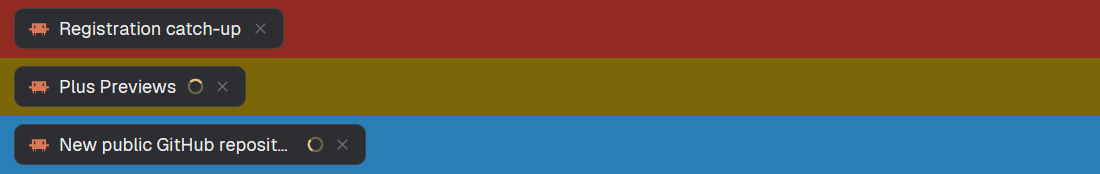
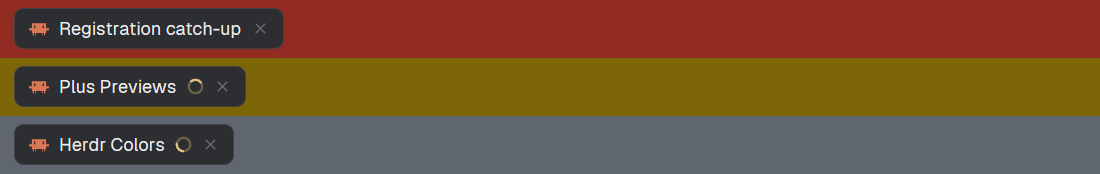
Use a soft gray for projects without a color
Replaces the name-hash palette, which could give unrelated projects the same
color and made it hard to tell which projects have a color set.

Changed region(s): [[0.0, 0.6609, 1.0, 1.0]]

diff --git a/mods/project-color/color.js b/mods/project-color/color.js
@@ -1,10 +1,8 @@
 // Pure helpers: no herdr imports, so node can test them (test/color.test.mjs).
 
-// Fallback colors for projects without one, in the spirit of VS Code title bars.
-export const PALETTE = [
-  "#007acc", "#6c3483", "#1e8449", "#922b21", "#7d6608",
-  "#2980b9", "#a04000", "#117a65", "#6b2fa0", "#b03a2e",
-];
+// For projects without a color of their own: a soft gray, so "no color set"
+// is plain to see next to the projects that have one.
+export const FALLBACK = "#5f6670";
 
 // Removes // and /* */ comments and trailing commas, leaving strings untouched,
 // so VS Code's settings.json (JSONC) parses with JSON.parse.
@@ -73,16 +71,6 @@ export function colorFromSettings(text) {
   const peacock = normalizeHex(s["peacock.color"]);
   if (peacock) return { background: peacock, foreground: null, source: "peacock.color" };
   return null;
-}
-
-// FNV-1a: the same name always lands on the same palette slot.
-export function hashColor(name) {
-  let h = 0x811c9dc5;
-  for (const ch of String(name ?? "").toLowerCase()) {
-    h ^= ch.codePointAt(0);
-    h = Math.imul(h, 0x01000193) >>> 0;
-  }
-  return PALETTE[h % PALETTE.length];
 }
 
 // Black or white text, whichever reads better on the background (WCAG luminance).

diff --git a/mods/project-color/main.js b/mods/project-color/main.js
@@ -1,7 +1,7 @@
 import { View, div } from "gpui-kit";
 import { h_flex } from "gpui-base";
 import { spaces, panes, exec, readTextFile, setWindowTitle, checking, shared, setShared, props } from "herdr";
-import { colorFromSettings, hashColor, textOn, baseName, mergeSpaceColors } from "./color.js";
+import { colorFromSettings, FALLBACK, textOn, baseName, mergeSpaceColors } from "./color.js";
 
 // How often the shown project's settings.json is read again, so a color
 // edited in VS Code shows up without switching spaces.
@@ -46,11 +46,11 @@ export default class ProjectColor extends View {
       let found = null;
       try {
         found = colorFromSettings(await readTextFile(`${root.replace(/[\\/]+$/, "")}/.vscode/settings.json`, { on: machine }));
-      } catch { /* unreadable: fall back to the hash */ }
+      } catch { /* unreadable: fall back to gray */ }
       const name = baseName(root) || "~";
       this.cache[key] = found
         ? { root, name, ...found }
-        : { root, name, background: hashColor(name), foreground: null, source: "hash" };
+        : { root, name, background: FALLBACK, foreground: null, source: "fallback" };
       delete this.loading[key];
       cx.notify();
     });

diff --git a/RECIPE.md b/RECIPE.md
@@ -41,7 +41,7 @@ per-project VS Code title bars.
   `tools/build-clones.mjs` from the shipped `tabs` and `agents` mods with regex-anchored
   patches that read `space.colors`.
 - `mods/project-color/color.js`: JSONC stripping, `titleBar.activeBackground` then
-  `peacock.color`, FNV-1a hash of the repo name into a 10-color palette, contrast, the merge.
+  `peacock.color`, else the soft gray `#5f6670`; contrast; the merge.
 
 ## Watch out
 
@@ -51,7 +51,7 @@ per-project VS Code title bars.
 - A Herdr update changes the shipped mods, not the clones: rerun the build script. It
   refuses to write if any anchor no longer matches exactly once.
 - The tabs clone still loads its window-button icons from `mods/tabs/`.
-- A space on a stopped machine (dev container) can't be read; it falls back to the hash color.
+- A space on a stopped machine (dev container) can't be read; it falls back to gray.
 - Colors with alpha (`#rrggbbaa`) drop the alpha; `#rgb` is expanded.
 
 ## Done when
@@ -59,6 +59,6 @@ per-project VS Code title bars.
 - `herdr-app check` passes for all three mods.
 - Two spaces in repos with different `titleBar.activeBackground` show those two tab bar colors.
 - A space on a dev container machine shows the color from the settings file inside the container.
-- A repo without settings gets the same color every time.
+- A repo without settings shows the gray `#5f6670`.
 - Switching spaces changes the window title (proves the 0px block runs).
 - Space tiles and agent stripes match the tab bar's color for the same space.

diff --git a/README.md b/README.md
@@ -14,8 +14,8 @@ there. That file may be JSONC (comments, trailing commas).
 
 1. `workbench.colorCustomizations` → `titleBar.activeBackground`
 2. `peacock.color`
-3. Neither, or the file can't be read (e.g. a stopped container): a hash of the repo's folder
-   name picks one of 10 palette colors, so it stays the same until the repo is renamed
+3. Neither, or the file can't be read (e.g. a stopped container): a soft gray (`#5f6670`),
+   so projects without a color of their own are easy to tell apart from those with one
 
 The shown space's settings are re-read every 30 seconds, so a color changed in VS Code shows
 up without switching spaces. `project-color` also sets the OS window title to `<space> - Herdr`.
@@ -91,7 +91,7 @@ their last project colors until you pick others in Herdr.
 node --test test/color.test.mjs
 ```
 
-`mods/project-color/color.js` holds the pure logic (JSONC, color lookup, hash, contrast,
+`mods/project-color/color.js` holds the pure logic (JSONC, color lookup, fallback, contrast,
 merging into `space.colors`) and is what the tests cover. `main.js` is the Herdr view. The
 patches for the tabs and agents mods live in `tools/build-clones.mjs`; don't edit the
 generated `main.js` files. After editing, copy the folder into Herdr's `mods/` again; saving
